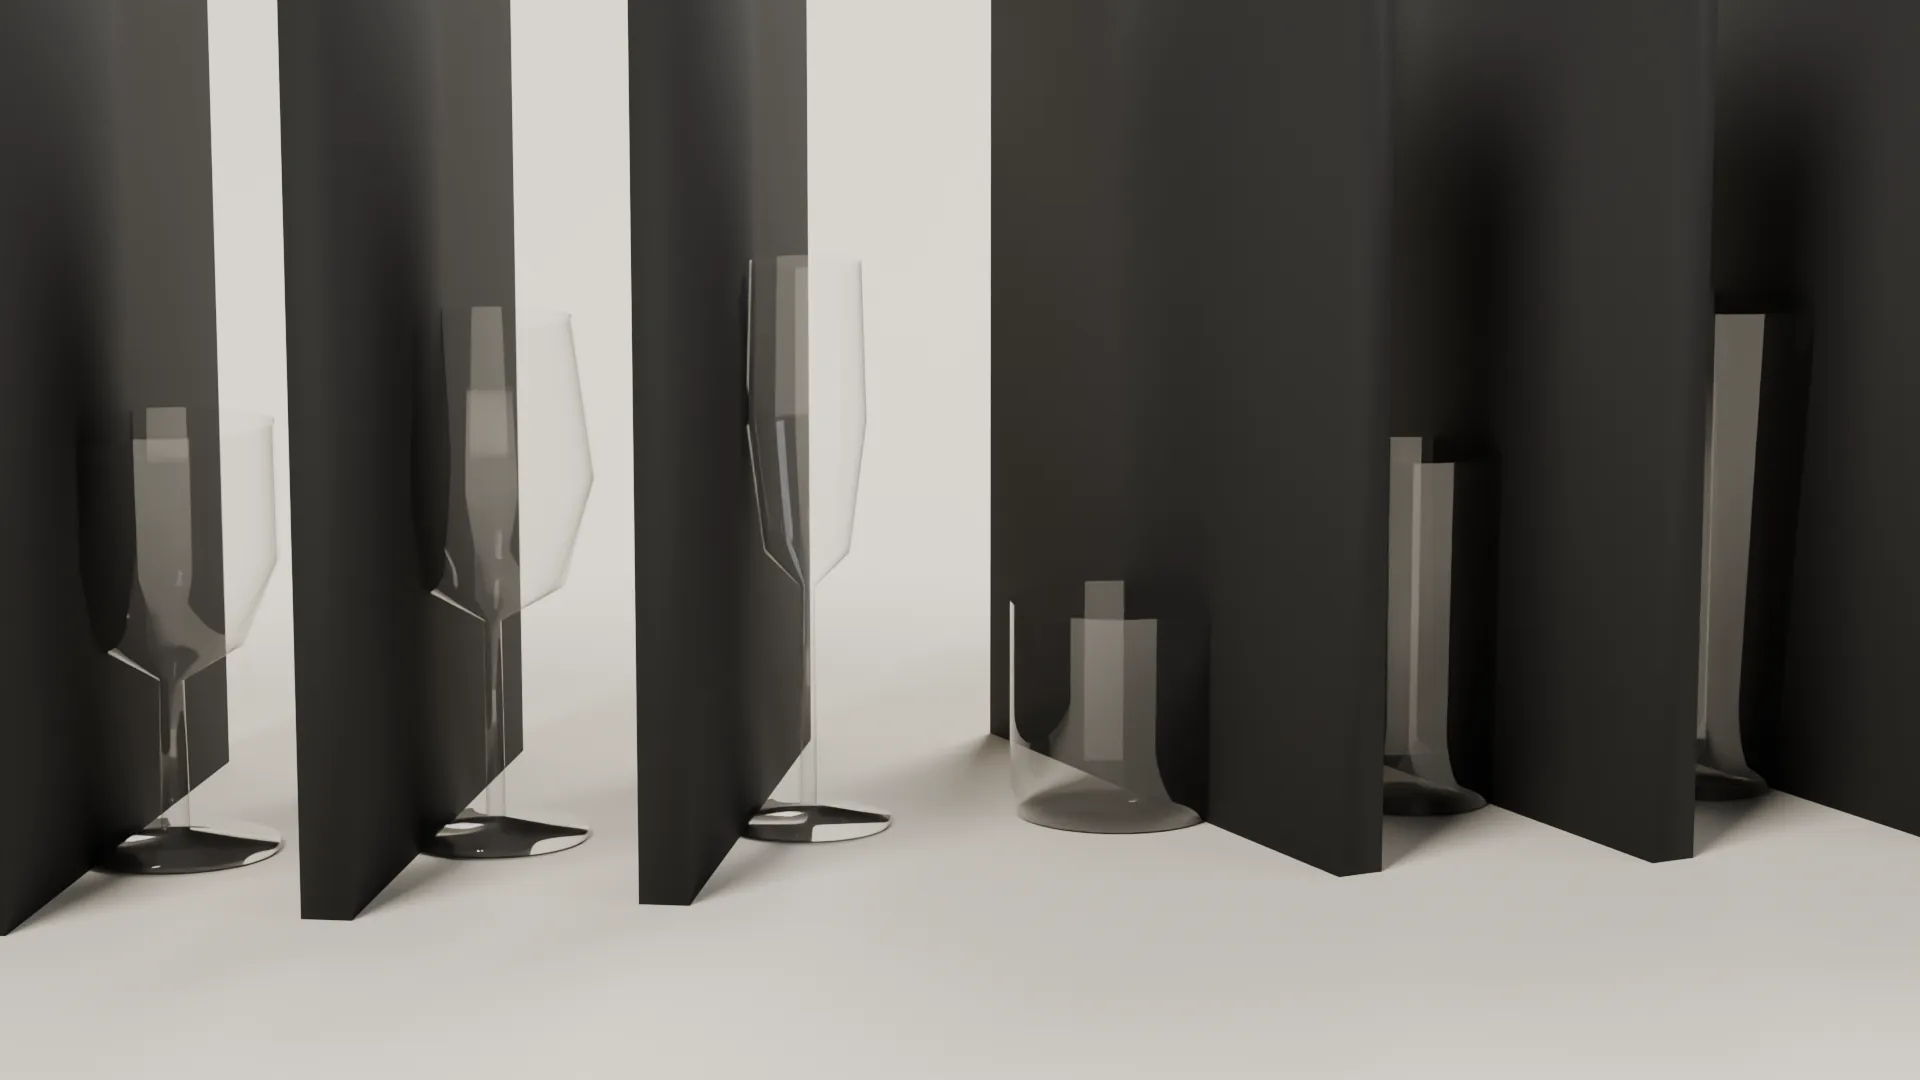
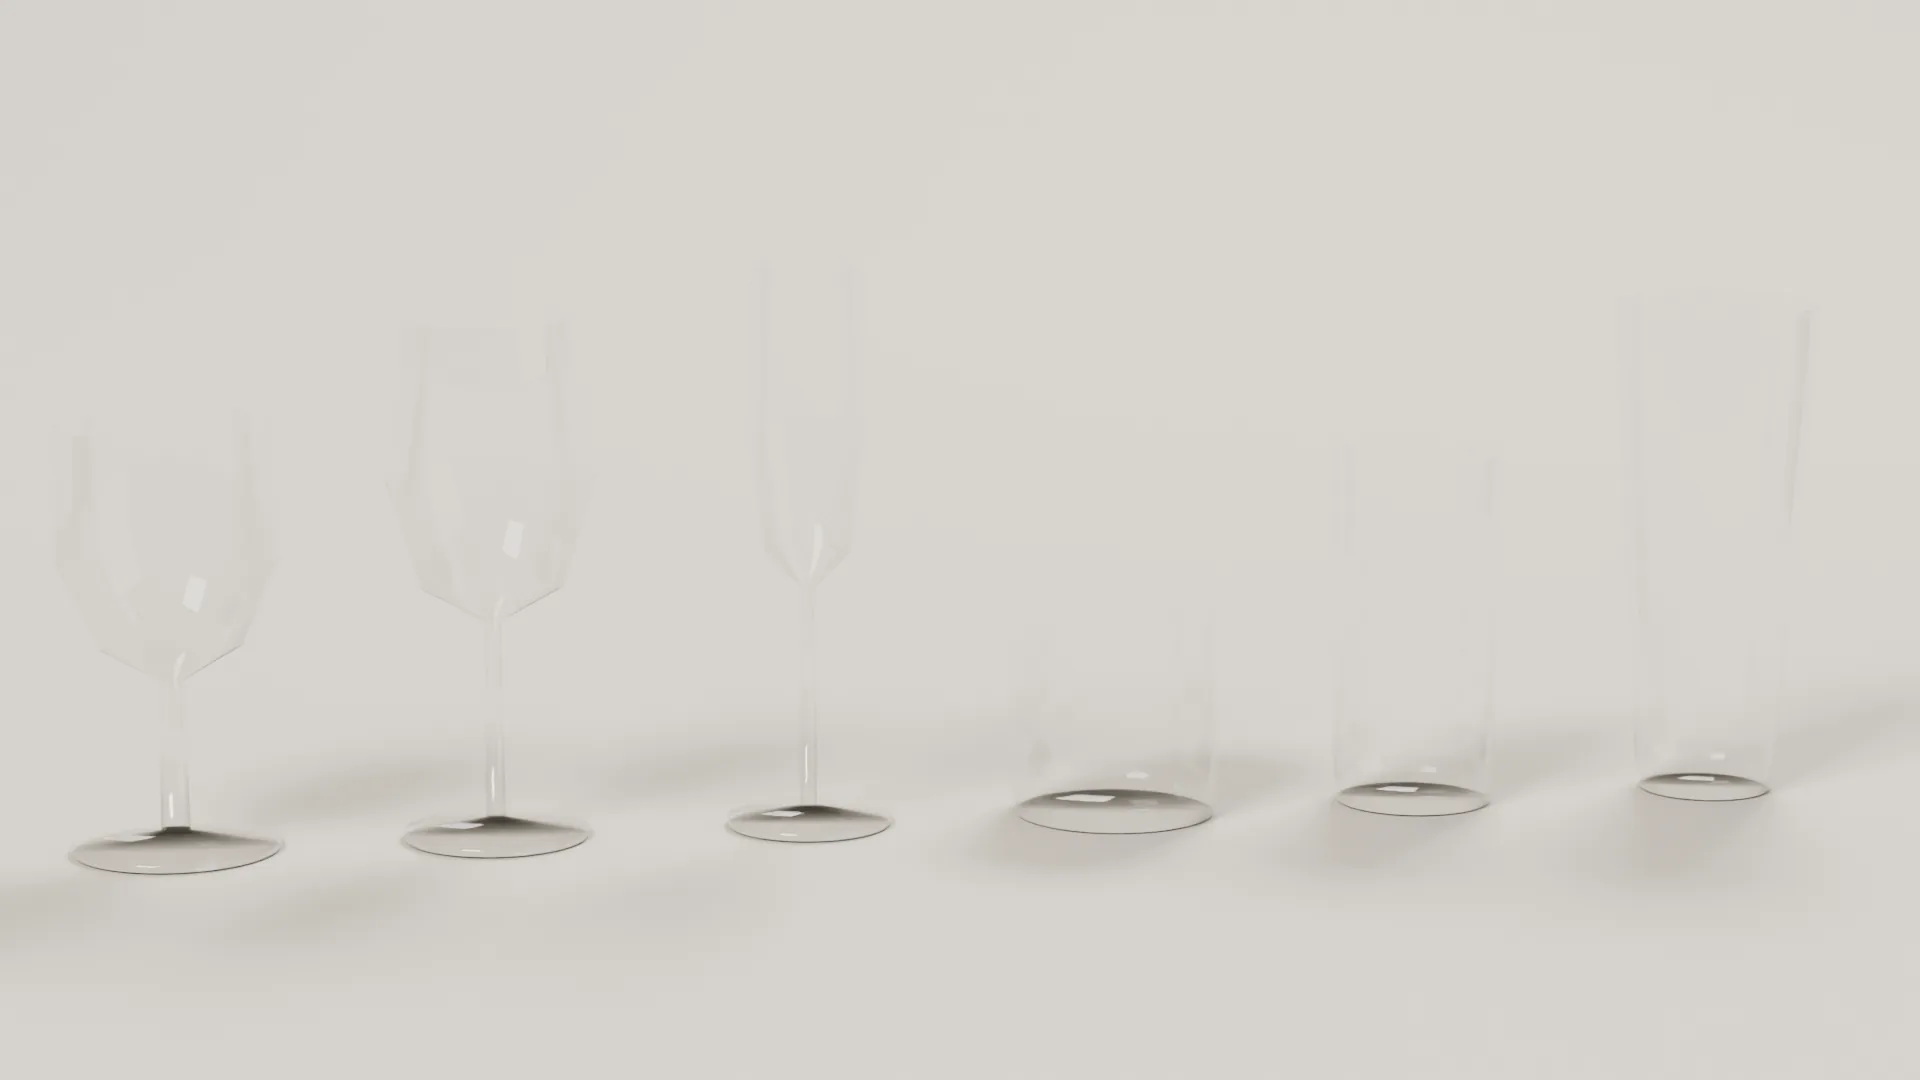
Fix glassware hero (flags out of frame) and publish new renders
Claude-Session: https://claude.ai/code/session_01331mZg2HkCPtUx3arnfdYJ

diff --git a/blender/rentals/heroes.py b/blender/rentals/heroes.py
@@ -96,7 +96,9 @@ hero("hero-dinnerware",
 hero("hero-glassware",
      "3D render of six rental glasses in a row: water goblet, wine glass, champagne flute, rocks, highball and pilsner glasses",
      "Glassware for bars and dinners",
-     lambda: lineup([(lambda k=k: TW.glass_shot(k)) for k in ("water-goblet", "wine-glass", "champagne-flute", "rocks-glass", "highball-glass", "pilsner-glass")], 0.13),
+     lambda: (lineup([(lambda k=k: setattr(TW.stemware(TW.GLASSES[k], k).location, "z", 0.0008))
+                      for k in ("water-goblet", "wine-glass", "champagne-flute", "rocks-glass", "highball-glass", "pilsner-glass")], 0.13),
+              TW.black_cards(spread=0.9, h=0.5)),  # one pair of flags, wide enough to stay out of frame
      cam=dict(az=-10, el=10, lens=85, pad=1.0))
 hero("hero-catering",
      "3D render of catering rentals: a roll-top chafing dish, a glass lemonade dispenser, a coffee urn and a gold cake stand",
